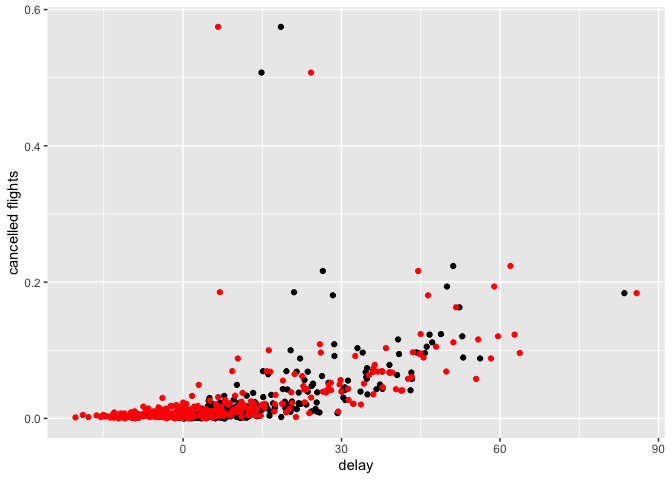
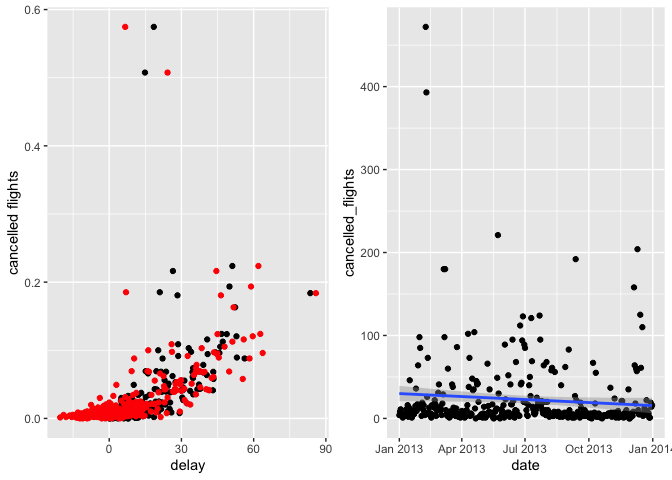
Add files via upload

diff --git a/hw4331.md b/hw4331.md
@@ -1,0 +1,155 @@
+hw1 stat433
+================
+2022-09-22
+
+``` r
+library(dplyr)
+```
+
+    ## 
+    ## Attaching package: 'dplyr'
+
+    ## The following objects are masked from 'package:stats':
+    ## 
+    ##     filter, lag
+
+    ## The following objects are masked from 'package:base':
+    ## 
+    ##     intersect, setdiff, setequal, union
+
+``` r
+library(nycflights13)
+library(ggplot2)
+library(lubridate)
+```
+
+    ## 
+    ## Attaching package: 'lubridate'
+
+    ## The following objects are masked from 'package:base':
+    ## 
+    ##     date, intersect, setdiff, union
+
+``` r
+library(ggpubr)
+library(gridExtra)
+```
+
+    ## 
+    ## Attaching package: 'gridExtra'
+
+    ## The following object is masked from 'package:dplyr':
+    ## 
+    ##     combine
+
+1.How many flights have a missing dep_time? What other variables are
+missing? What might these rows represent?
+
+``` r
+summary(flights)
+```
+
+    ##       year          month             day           dep_time    sched_dep_time
+    ##  Min.   :2013   Min.   : 1.000   Min.   : 1.00   Min.   :   1   Min.   : 106  
+    ##  1st Qu.:2013   1st Qu.: 4.000   1st Qu.: 8.00   1st Qu.: 907   1st Qu.: 906  
+    ##  Median :2013   Median : 7.000   Median :16.00   Median :1401   Median :1359  
+    ##  Mean   :2013   Mean   : 6.549   Mean   :15.71   Mean   :1349   Mean   :1344  
+    ##  3rd Qu.:2013   3rd Qu.:10.000   3rd Qu.:23.00   3rd Qu.:1744   3rd Qu.:1729  
+    ##  Max.   :2013   Max.   :12.000   Max.   :31.00   Max.   :2400   Max.   :2359  
+    ##                                                  NA's   :8255                 
+    ##    dep_delay          arr_time    sched_arr_time   arr_delay       
+    ##  Min.   : -43.00   Min.   :   1   Min.   :   1   Min.   : -86.000  
+    ##  1st Qu.:  -5.00   1st Qu.:1104   1st Qu.:1124   1st Qu.: -17.000  
+    ##  Median :  -2.00   Median :1535   Median :1556   Median :  -5.000  
+    ##  Mean   :  12.64   Mean   :1502   Mean   :1536   Mean   :   6.895  
+    ##  3rd Qu.:  11.00   3rd Qu.:1940   3rd Qu.:1945   3rd Qu.:  14.000  
+    ##  Max.   :1301.00   Max.   :2400   Max.   :2359   Max.   :1272.000  
+    ##  NA's   :8255      NA's   :8713                  NA's   :9430      
+    ##    carrier              flight       tailnum             origin         
+    ##  Length:336776      Min.   :   1   Length:336776      Length:336776     
+    ##  Class :character   1st Qu.: 553   Class :character   Class :character  
+    ##  Mode  :character   Median :1496   Mode  :character   Mode  :character  
+    ##                     Mean   :1972                                        
+    ##                     3rd Qu.:3465                                        
+    ##                     Max.   :8500                                        
+    ##                                                                         
+    ##      dest              air_time        distance         hour      
+    ##  Length:336776      Min.   : 20.0   Min.   :  17   Min.   : 1.00  
+    ##  Class :character   1st Qu.: 82.0   1st Qu.: 502   1st Qu.: 9.00  
+    ##  Mode  :character   Median :129.0   Median : 872   Median :13.00  
+    ##                     Mean   :150.7   Mean   :1040   Mean   :13.18  
+    ##                     3rd Qu.:192.0   3rd Qu.:1389   3rd Qu.:17.00  
+    ##                     Max.   :695.0   Max.   :4983   Max.   :23.00  
+    ##                     NA's   :9430                                  
+    ##      minute        time_hour                     
+    ##  Min.   : 0.00   Min.   :2013-01-01 05:00:00.00  
+    ##  1st Qu.: 8.00   1st Qu.:2013-04-04 13:00:00.00  
+    ##  Median :29.00   Median :2013-07-03 10:00:00.00  
+    ##  Mean   :26.23   Mean   :2013-07-03 05:22:54.64  
+    ##  3rd Qu.:44.00   3rd Qu.:2013-10-01 07:00:00.00  
+    ##  Max.   :59.00   Max.   :2013-12-31 23:00:00.00  
+    ## 
+
+There are 8255 rows have missing dep_timed, 8255 rows have missing
+dep_delay, 8713 rows have a missing arr_time, 9430 rows have a missing
+arr_delay, and 9430 rows have a missing air_time. Those missing values
+might represent cancelled flights.
+
+2
+
+``` r
+flights%>%mutate(
+       dep_time = (dep_time %/% 100) * 60 + (dep_time %% 100),
+       sched_dep_time = (sched_dep_time %/% 100) * 60 + (sched_dep_time %% 100))
+```
+
+    ## # A tibble: 336,776 × 19
+    ##     year month   day dep_time sched_de…¹ dep_d…² arr_t…³ sched…⁴ arr_d…⁵ carrier
+    ##    <int> <int> <int>    <dbl>      <dbl>   <dbl>   <int>   <int>   <dbl> <chr>  
+    ##  1  2013     1     1      317        315       2     830     819      11 UA     
+    ##  2  2013     1     1      333        329       4     850     830      20 UA     
+    ##  3  2013     1     1      342        340       2     923     850      33 AA     
+    ##  4  2013     1     1      344        345      -1    1004    1022     -18 B6     
+    ##  5  2013     1     1      354        360      -6     812     837     -25 DL     
+    ##  6  2013     1     1      354        358      -4     740     728      12 UA     
+    ##  7  2013     1     1      355        360      -5     913     854      19 B6     
+    ##  8  2013     1     1      357        360      -3     709     723     -14 EV     
+    ##  9  2013     1     1      357        360      -3     838     846      -8 B6     
+    ## 10  2013     1     1      358        360      -2     753     745       8 AA     
+    ## # … with 336,766 more rows, 9 more variables: flight <int>, tailnum <chr>,
+    ## #   origin <chr>, dest <chr>, air_time <dbl>, distance <dbl>, hour <dbl>,
+    ## #   minute <dbl>, time_hour <dttm>, and abbreviated variable names
+    ## #   ¹sched_dep_time, ²dep_delay, ³arr_time, ⁴sched_arr_time, ⁵arr_delay
+
+3
+
+``` r
+flight3 = flights %>%
+  mutate(date = paste(year,month,day),date=ymd(date))%>%
+  group_by(date) %>%
+  summarise(cancelled_flights = sum(is.na(dep_delay|arr_delay)),
+            n = n(),
+            cancelled_pro = cancelled_flights/n,
+            mean_dep_delay = mean(dep_delay, na.rm = T),
+            mean_arr_delay = mean(arr_delay, na.rm = T))
+p1 = flight3%>%
+  ggplot(aes(y = cancelled_pro)) +
+  geom_point(aes(x = mean_dep_delay)) +
+  geom_point(aes(x = mean_arr_delay), color = "red") +
+  xlab("delay")+
+  ylab("cancelled flights")
+p2 = flight3%>%
+  ggplot(aes(x = date,y = cancelled_flights))+
+  geom_point()+
+  geom_smooth(method = 'lm')
+grid.arrange(p1, p2, ncol=2)
+```
+
+    ## `geom_smooth()` using formula 'y ~ x'
+
+![](hw4331_files/figure-gfm/unnamed-chunk-4-1.png)<!-- -->
+
+There is a positive relationship between daily delay and cancelled
+flights. The number of cancelled flights tends to increase as daily
+delay increases. There is a decreasing trend for number of cancelled
+flights versus date.
